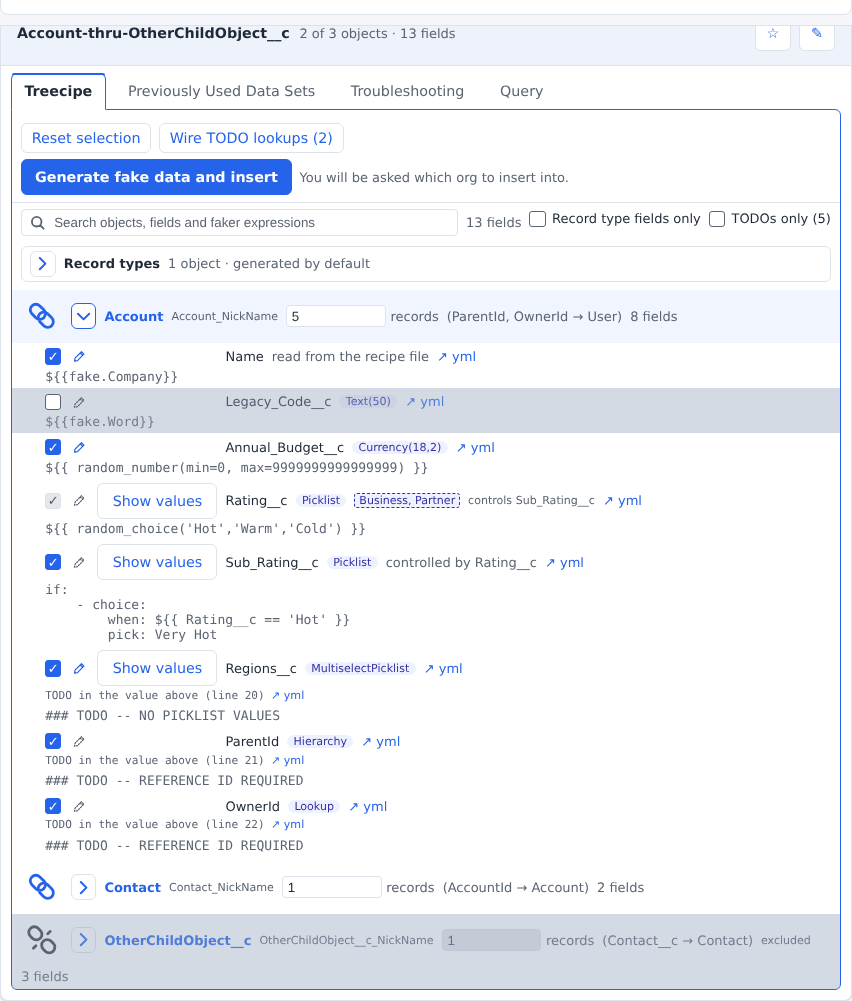
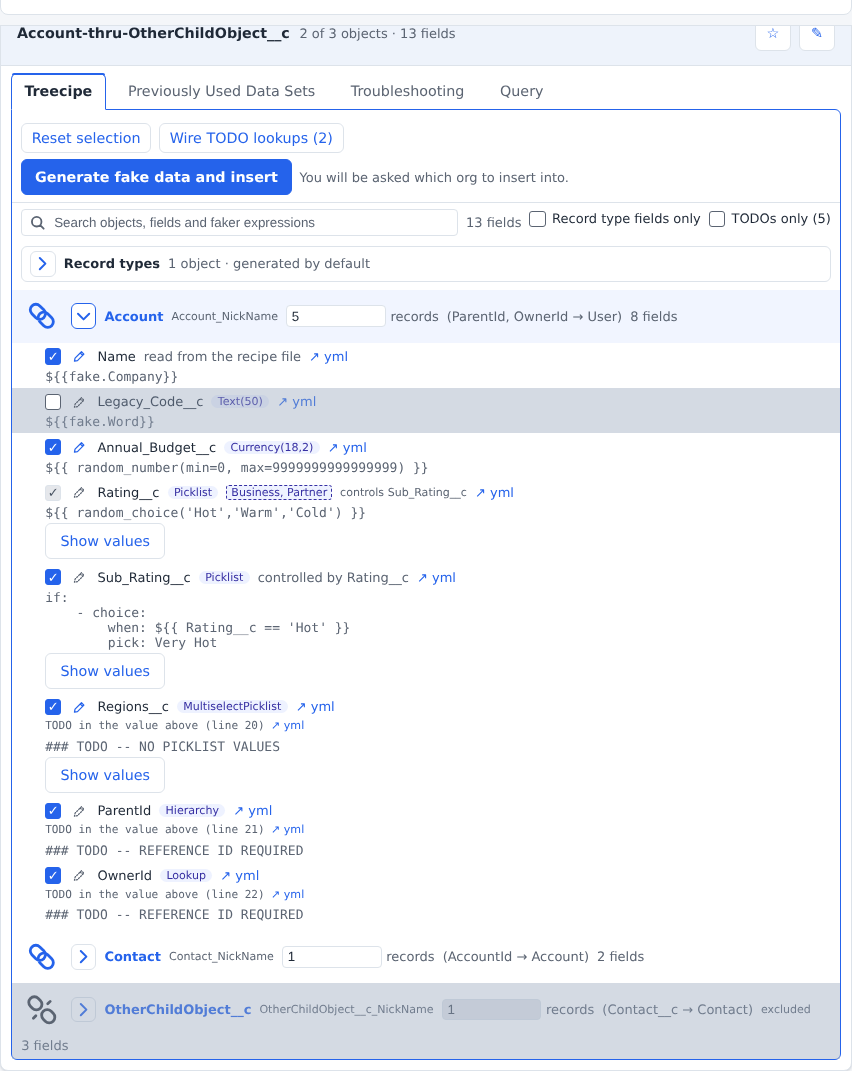
v3.121.0 — Recipe Cockpit: a picklist's Show values sits under its faker value, so every field name is next to its edit button (#398)
The picklist toggle moves out of the field header into a picklistSection after
the faker value, and the spacer every non-picklist row kept for it is removed.
The inline field editor opens above that section. Guide screenshots re-taken.

Claude-Session: https://claude.ai/code/session_01Lt3c6rG19f2PZyxe4nCKC2

diff --git a/src/treecipe/src/RecipeCockpitService/RecipeCockpitService.ts b/src/treecipe/src/RecipeCockpitService/RecipeCockpitService.ts
@@ -12940,9 +12940,8 @@ ${this.buildPaletteCustomProperties()}
         padding: 0;
         line-height: 1;
     }
-    .picklistToggle, .picklistToggleSpacer { box-sizing: border-box; flex: none; width: 7.5rem; }
-    .picklistToggle { display: inline-flex; align-items: center; justify-content: center; padding: 0.4rem 0.6rem; line-height: 1; white-space: nowrap; }
-    .picklistToggleSpacer { display: inline-block; height: 1px; }
+    .picklistSection { margin: 0.2rem 0 0 0; }
+    .picklistToggle { box-sizing: border-box; flex: none; width: 7.5rem; display: inline-flex; align-items: center; justify-content: center; padding: 0.4rem 0.6rem; line-height: 1; white-space: nowrap; }
     .toggleGlyph { display: block; width: 1.2rem; height: 1.2rem; transition: transform ${RECIPE_COCKPIT_MOTION_REVEAL_MILLISECONDS}ms ease; }
     [aria-expanded="true"] > .toggleGlyph { transform: rotate(90deg); }
     .noMotion > .toggleGlyph { transition: none; }
@@ -15829,7 +15828,8 @@ ${this.buildPaletteCustomProperties()}
         if (!fieldState.editorElement) {
             fieldState.editorElement = createElement('div', 'fieldEditor hidden');
             fieldState.editorElement.setAttribute('role', 'group');
-            fieldState.rowElement.appendChild(fieldState.editorElement);
+            // THE EDITOR EDITS THE FAKER VALUE, SO IT OPENS UNDER IT, ABOVE A PICKLIST'S SHOW VALUES (#398)
+            fieldState.rowElement.insertBefore(fieldState.editorElement, fieldState.picklistSectionElement);
         }
 
         const editorElement = fieldState.editorElement;
@@ -15945,6 +15945,7 @@ ${this.buildPaletteCustomProperties()}
             fixedValueBadgeElement: null,
             fixedValueElement: null,
             expressionElement: null,
+            picklistSectionElement: null,
             validationRuleElement: null,
             isValidationRuleApplied: true,
             recordTypeDeveloperNames: null,
@@ -16054,45 +16055,6 @@ ${this.buildPaletteCustomProperties()}
             fieldHeaderElement.appendChild(buildFieldFixedValueElement(treeObjectState, fieldState));
         }
 
-        let setPicklistExpanded = null;
-
-        if (field.isPicklist) {
-
-            const picklistToggleElement = createButton('secondary', 'picklistToggle', PICKLIST_SHOW_VALUES_LABEL);
-            let picklistValuesElement = null;
-
-            setPicklistExpanded = function (isExpanding, isAnimated) {
-                if (isExpanding && !picklistValuesElement) {
-                    picklistValuesElement = createElement('div', 'picklistValues hidden');
-                    fieldRowElement.appendChild(picklistValuesElement);
-                    requestPicklistValues(treeObjectState.object.objectApiName, field.fieldApiName, picklistValuesElement);
-                }
-                if (picklistValuesElement) {
-                    setShownWithMotion(picklistValuesElement, isExpanding, isAnimated);
-                }
-                fieldState.isPicklistExpanded = isExpanding;
-                picklistToggleElement.textContent = isExpanding ? PICKLIST_HIDE_VALUES_LABEL : PICKLIST_SHOW_VALUES_LABEL;
-                picklistToggleElement.setAttribute('aria-expanded', isExpanding ? 'true' : 'false');
-                picklistToggleElement.setAttribute('aria-label', (isExpanding ? PICKLIST_HIDE_VALUES_LABEL : PICKLIST_SHOW_VALUES_LABEL) + ' of ' + field.fieldApiName);
-            };
-
-            // THE NAME STARTS WITH THE TEXT ON THE BUTTON, SO A VOICE COMMAND OF WHAT IS ON SCREEN REACHES IT
-            picklistToggleElement.setAttribute('aria-label', PICKLIST_SHOW_VALUES_LABEL + ' of ' + field.fieldApiName);
-            picklistToggleElement.setAttribute('aria-expanded', 'false');
-            picklistToggleElement.addEventListener('click', function () {
-                setPicklistExpanded(!fieldState.isPicklistExpanded, true);
-                savePanelPlace();
-            });
-
-            fieldHeaderElement.appendChild(picklistToggleElement);
-
-        } else {
-            // A ROW WITHOUT THE BUTTON KEEPS ITS SLOT, SO EVERY FIELD NAME OF AN OBJECT LINES UP
-            const toggleSpacerElement = createElement('span', 'picklistToggleSpacer');
-            toggleSpacerElement.setAttribute('aria-hidden', 'true');
-            fieldHeaderElement.appendChild(toggleSpacerElement);
-        }
-
         fieldHeaderElement.appendChild(createElement('span', 'treeFieldName', field.fieldApiName));
 
         const referencedOwnerState = findReferencedOwnerState(treeObjectState, fieldState);
@@ -16165,6 +16127,44 @@ ${this.buildPaletteCustomProperties()}
 
         fieldState.fixedValueElement = createElement('pre', 'fixedValue hidden');
         fieldRowElement.appendChild(fieldState.fixedValueElement);
+
+        // A PICKLIST'S SHOW VALUES SITS UNDER ITS FAKER VALUE, NOT IN THE HEADER, SO NO ROW KEEPS A SLOT FOR IT (#398)
+        let setPicklistExpanded = null;
+
+        if (field.isPicklist) {
+
+            const picklistSectionElement = createElement('div', 'picklistSection');
+            const picklistToggleElement = createButton('secondary', 'picklistToggle', PICKLIST_SHOW_VALUES_LABEL);
+            let picklistValuesElement = null;
+
+            setPicklistExpanded = function (isExpanding, isAnimated) {
+                if (isExpanding && !picklistValuesElement) {
+                    picklistValuesElement = createElement('div', 'picklistValues hidden');
+                    picklistSectionElement.appendChild(picklistValuesElement);
+                    requestPicklistValues(treeObjectState.object.objectApiName, field.fieldApiName, picklistValuesElement);
+                }
+                if (picklistValuesElement) {
+                    setShownWithMotion(picklistValuesElement, isExpanding, isAnimated);
+                }
+                fieldState.isPicklistExpanded = isExpanding;
+                picklistToggleElement.textContent = isExpanding ? PICKLIST_HIDE_VALUES_LABEL : PICKLIST_SHOW_VALUES_LABEL;
+                picklistToggleElement.setAttribute('aria-expanded', isExpanding ? 'true' : 'false');
+                picklistToggleElement.setAttribute('aria-label', (isExpanding ? PICKLIST_HIDE_VALUES_LABEL : PICKLIST_SHOW_VALUES_LABEL) + ' of ' + field.fieldApiName);
+            };
+
+            // THE NAME STARTS WITH THE TEXT ON THE BUTTON, SO A VOICE COMMAND OF WHAT IS ON SCREEN REACHES IT
+            picklistToggleElement.setAttribute('aria-label', PICKLIST_SHOW_VALUES_LABEL + ' of ' + field.fieldApiName);
+            picklistToggleElement.setAttribute('aria-expanded', 'false');
+            picklistToggleElement.addEventListener('click', function () {
+                setPicklistExpanded(!fieldState.isPicklistExpanded, true);
+                savePanelPlace();
+            });
+
+            picklistSectionElement.appendChild(picklistToggleElement);
+            fieldRowElement.appendChild(picklistSectionElement);
+            fieldState.picklistSectionElement = picklistSectionElement;
+
+        }
 
         // A ROW BUILT FROM A RESTORED PLACE OPENS ONLY ONCE IT IS WHOLE: OPENED EARLIER, ITS VALUES WERE
         // APPENDED BEFORE ITS HEADER AND DREW ABOVE THE FIELD NAME (#277). IT STILL ASKS THE HOST AGAIN

diff --git a/src/treecipe/src/RecipeCockpitService/tests/RecipeCockpitService.test.ts b/src/treecipe/src/RecipeCockpitService/tests/RecipeCockpitService.test.ts
@@ -441,21 +441,23 @@ describe('RecipeCockpitService', () => {
         });
 
         // #244 MADE THE ▸/▾ BIG ENOUGH TO READ AT A GLANCE; #277 GAVE THE PICKLIST'S THE SAME SIZE AND CENTRED ALL THREE
-        // #343: THE PICKLIST'S IS A TEXT BUTTON NOW, OF ONE FIXED WIDTH ITS SPACER SHARES
+        // #343: THE PICKLIST'S IS A TEXT BUTTON NOW, OF ONE FIXED WIDTH
+        // #398: IT MOVED UNDER THE FAKER VALUE, AND THE SPACER THAT KEPT ITS SLOT IN EVERY HEADER IS GONE
         // #374: A CARD HAS NO ▸ OF ITS OWN ANY MORE
         // #392: EVERY CHEVRON SHRANK TO ONE 1.6rem BOX, AND THE SECONDARY KIND'S 2.25rem MINIMUM NO LONGER HOLDS IT OPEN
-        it('draws every chevron toggle as one centred 1.6rem box holding a 1.2rem glyph, the picklist button and its spacer one width, and the field rows centred on them', () => {
+        it('draws every chevron toggle as one centred 1.6rem box holding a 1.2rem glyph, the picklist button of one fixed width, and no spacer for it', () => {
 
             const styleSheet = styleSheetOf(RecipeCockpitService.buildWebviewShellHtml('testNonce'));
             const toggleBoxRule = ruleFor(styleSheet, '\\.chevronToggle');
             const toggleCentringRule = ruleFor(styleSheet, '\\.chevronToggle');
             expect(ruleFor(styleSheet, '\\.treeObjectToggle')).toBe('');
             expect(styleSheet).not.toContain('.treeToggle');
-            const picklistWidthRule = ruleFor(styleSheet, '\\.picklistToggle, \\.picklistToggleSpacer');
+            const picklistWidthRule = ruleFor(styleSheet, '\\.picklistToggle');
+            expect(styleSheet).not.toContain('picklistToggleSpacer');
 
             expect(picklistWidthRule).toContain('width: 7.5rem;');
             expect(picklistWidthRule).toContain('flex: none;');
-            expect(ruleFor(styleSheet, '\\.picklistToggle')).toContain('white-space: nowrap;');
+            expect(picklistWidthRule).toContain('white-space: nowrap;');
             expect(styleSheet).not.toMatch(/\.picklistToggle[^{]*\{[^}]*height: 2\.6rem/);
 
             expect(toggleBoxRule).toContain('width: 1.6rem;');
@@ -2273,7 +2275,8 @@ describe('RecipeCockpitService', () => {
 
         });
 
-        it('gives a field with no picklist a hidden slot where the values button goes, so every field name lines up', () => {
+        // #398: THE HEADER IS CHECKBOX, EDIT BUTTON, NAME FOR EVERY FIELD; A PICKLIST'S BUTTON IS UNDER ITS FAKER VALUE
+        it('puts every field name right after its checkbox and edit button, and a picklist\'s Show values after its faker value', () => {
 
             const { panel } = renderTreeRecipe();
             const [firstTreeCard] = treeCardsOf(panel);
@@ -2281,22 +2284,35 @@ describe('RecipeCockpitService', () => {
             const accountElement = treeObjectNamed(panel, firstTreeCard, 'Account');
             expandTreeObject(panel, accountElement);
 
-            const leadingClassOf = (fieldApiName: string) => {
+            const leadingClassesOf = (fieldApiName: string) => {
                 const headerChildren = treeFieldNamed(panel, accountElement, fieldApiName).children[0].children;
                 const nameIndex = headerChildren.findIndex((child: any) => child.classList.contains('treeFieldName'));
-                return headerChildren[nameIndex - 1].classList;
+                return headerChildren.slice(0, nameIndex).map((child: any) => child.classList);
             };
 
-            expect(leadingClassOf('Rating__c').contains('picklistToggle')).toBe(true);
-            expect(leadingClassOf('Legacy_Code__c').contains('picklistToggleSpacer')).toBe(true);
-            const spacer = panel.findAll(treeFieldNamed(panel, accountElement, 'Legacy_Code__c'), 'picklistToggleSpacer')[0];
-            expect(spacer.attributes['aria-hidden']).toBe('true');
-            expect(panel.findAll(treeFieldNamed(panel, accountElement, 'Rating__c'), 'picklistToggleSpacer')).toEqual([]);
+            ['Rating__c', 'Legacy_Code__c'].forEach(fieldApiName => {
+                const leadingClasses = leadingClassesOf(fieldApiName);
+                expect(leadingClasses.length).toBe(2);
+                expect(leadingClasses[0].contains('treeFieldInclude')).toBe(true);
+                expect(leadingClasses[1].contains('treeFieldFixedValue')).toBe(true);
+            });
+            expect(panel.findAll(panel.cockpitBodyElement, 'picklistToggleSpacer')).toEqual([]);
+
+            const ratingRow = treeFieldNamed(panel, accountElement, 'Rating__c');
+            const rowClassIndex = (className: string) => ratingRow.children.findIndex((child: any) => child.classList.contains(className));
+            expect(panel.findAll(ratingRow.children[0], 'picklistToggle')).toEqual([]);
+            expect(rowClassIndex('expressionRow')).toBeGreaterThan(0);
+            expect(rowClassIndex('picklistSection')).toBeGreaterThan(rowClassIndex('expressionRow'));
+            expect(ratingRow.children[rowClassIndex('picklistSection')].children[0].classList.contains('picklistToggle')).toBe(true);
+
+            const legacyRow = treeFieldNamed(panel, accountElement, 'Legacy_Code__c');
+            expect(panel.findAll(legacyRow, 'picklistSection')).toEqual([]);
+            expect(panel.findAll(legacyRow, 'picklistToggle')).toEqual([]);
 
         });
 
         // #277: THE VALUES OPEN UNDER THE ROW THAT WAS CLICKED, NEVER ABOVE IT
-        it('opens a picklist\'s values at the bottom of its own row, after its header and expression', () => {
+        it('opens a picklist\'s values at the bottom of its own row, after its header, expression and Show values', () => {
 
             const { panel } = renderTreeRecipe();
             const [firstTreeCard] = treeCardsOf(panel);
@@ -2308,7 +2324,10 @@ describe('RecipeCockpitService', () => {
             panel.findAll(ratingRow, 'picklistToggle')[0].dispatch('click');
 
             expect(ratingRow.children[0].classList.contains('treeFieldHeader')).toBe(true);
-            expect(ratingRow.children[ratingRow.children.length - 1].classList.contains('picklistValues')).toBe(true);
+            const picklistSection = ratingRow.children[ratingRow.children.length - 1];
+            expect(picklistSection.classList.contains('picklistSection')).toBe(true);
+            expect(picklistSection.children.map((child: any) => child.classList.contains('picklistToggle') ? 'toggle' : child.classList.contains('picklistValues') ? 'values' : 'other'))
+                .toEqual(['toggle', 'values']);
 
         });
 

diff --git a/src/treecipe/src/RecipeCockpitService/tests/RecipeCockpitFixedValues.test.ts b/src/treecipe/src/RecipeCockpitService/tests/RecipeCockpitFixedValues.test.ts
@@ -1443,6 +1443,23 @@ describe('RecipeCockpitService -- fixed values (#262)', () => {
 
         });
 
+        it('opens a picklist\'s editor under its faker value and above its Show values, whether or not the values are open (#398)', () => {
+
+            const panel = drawRecipe();
+            panel.postToPanel({ command: 'rendered' });
+            const lead = expanded(panel, 'Lead');
+            const row = rowOf(panel, lead, 'Status');
+            const rowClassIndex = (className: string) => row.children.findIndex((child: any) => child.classList.contains(className));
+
+            only(panel, row, 'picklistToggle').dispatch('click');
+            pinOf(panel, lead, 'Status').dispatch('click');
+
+            expect(rowClassIndex('fieldEditor')).toBeGreaterThan(rowClassIndex('expressionRow'));
+            expect(rowClassIndex('picklistSection')).toBe(rowClassIndex('fieldEditor') + 1);
+            expect(rowClassIndex('picklistSection')).toBe(row.children.length - 1);
+
+        });
+
         it('opens an inline editor under the row on a click, posts nothing until Save, and closes it on a second click or Cancel (#337)', () => {
 
             const panel = drawRecipe();

diff --git a/src/treecipe/src/RecipeCockpitService/tests/RecipeCockpitPlaceRestore.test.ts b/src/treecipe/src/RecipeCockpitService/tests/RecipeCockpitPlaceRestore.test.ts
@@ -139,7 +139,11 @@ describe('RecipeCockpitService, the reader\'s place', () => {
 
             const ratingRow = panel.fieldRowNamed(objectNamed(panel, ACCOUNT_TREE_KEY, 'Account'), 'Rating__c');
             expect(ratingRow.children[0].classList.contains('treeFieldHeader')).toBe(true);
-            expect(ratingRow.children[ratingRow.children.length - 1].classList.contains('picklistValues')).toBe(true);
+            // #398: THE VALUES SIT UNDER THE SHOW VALUES BUTTON, WHICH IS UNDER THE FAKER VALUE AT THE END OF THE ROW
+            const picklistSection = ratingRow.children[ratingRow.children.length - 1];
+            expect(picklistSection.classList.contains('picklistSection')).toBe(true);
+            expect(picklistSection.children[0].classList.contains('picklistToggle')).toBe(true);
+            expect(picklistSection.children[picklistSection.children.length - 1].classList.contains('picklistValues')).toBe(true);
             expect(panel.findAll(ratingRow, 'picklistValues')).toHaveLength(1);
 
         });

diff --git a/CHANGELOG.md b/CHANGELOG.md
@@ -1,5 +1,18 @@
 # Change Log
 
+## [3.121.0] - Recipe Cockpit: a picklist's Show values sits under its faker value, so every field name is next to its edit button
+
+Closes [#398](https://github.com/jdschleicher/Salesforce-Data-Treecipe/issues/398).
+
+#343 put the picklist's **Show values** button in the field header, before the field name, at a fixed 7.5rem. Every field without a picklist kept an empty spacer of the same width so the names lined up, which left a wide gap between every field name and its checkbox and edit button.
+
+- **Header.** A field row's header is the checkbox, the edit button and the field name, in that order, for every field. The `picklistToggleSpacer` and its CSS are gone.
+- **Show values.** A picklist's button sits in its own `picklistSection` after the faker value (and after a fixed value, when one is shown). The values open inside that section, under the button.
+- **Inline editor.** The field editor (#337) opens under the faker value and above a picklist's Show values, rather than at the end of the row.
+- **Unchanged.** The labels, `aria-expanded`, the `aria-label` (`Show values of <field>`), loading values on first expand, the saved `isPicklistExpanded` place and the `secondary` button kind.
+- **Guide.** The screenshots in `docs/RECIPE-COCKPIT-GUIDE.md` were re-taken.
+- **Tests.** `RecipeCockpitService.test.ts` checks every header is checkbox, edit button, name with no spacer, and that a picklist's section follows its expression with the values under the button; `RecipeCockpitPlaceRestore.test.ts` checks a restored open picklist draws the same way; `RecipeCockpitFixedValues.test.ts` checks the editor opens above Show values.
+
 ## [3.120.1] - Recipe Cockpit: the Troubleshooting sub-tab panel pads its cards and lists off its border
 
 Closes [#393](https://github.com/jdschleicher/Salesforce-Data-Treecipe/issues/393).
